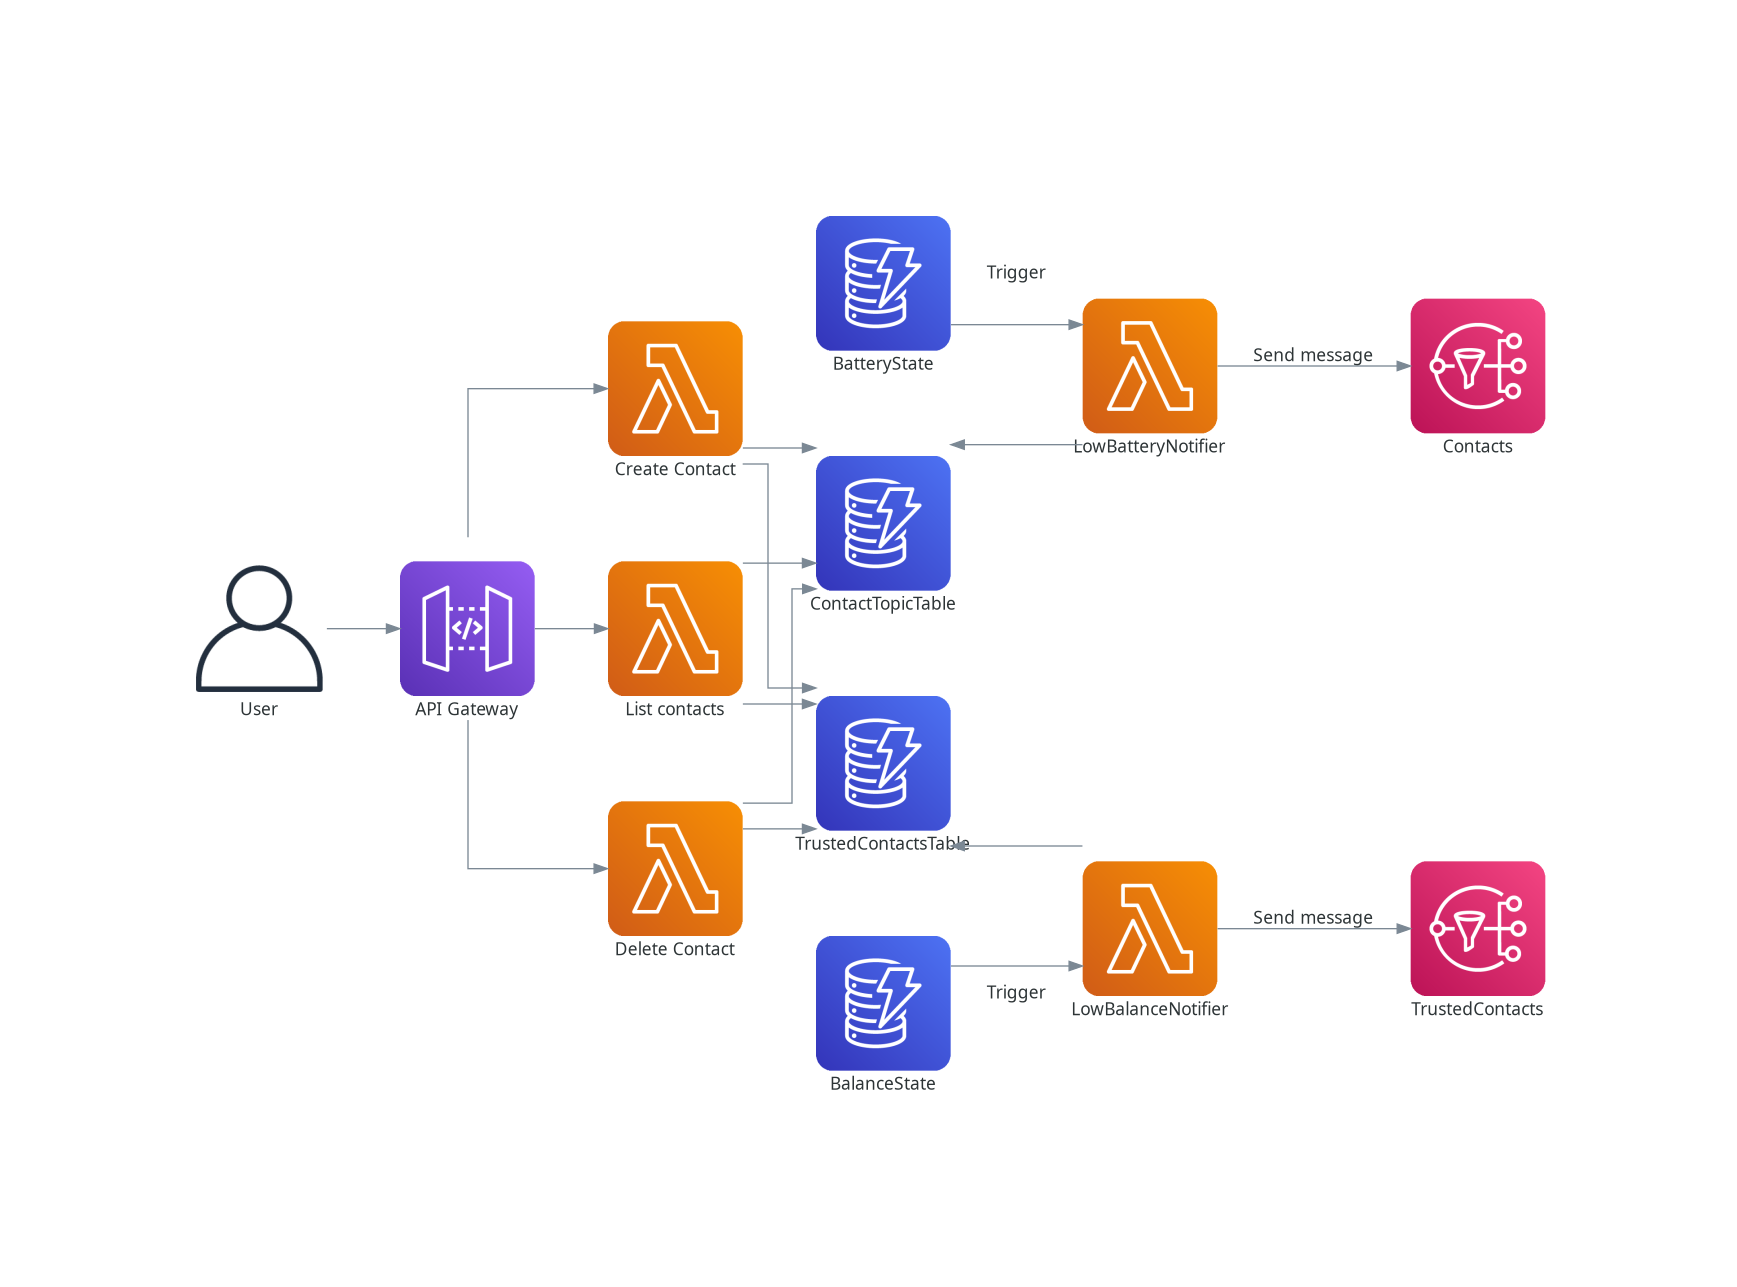
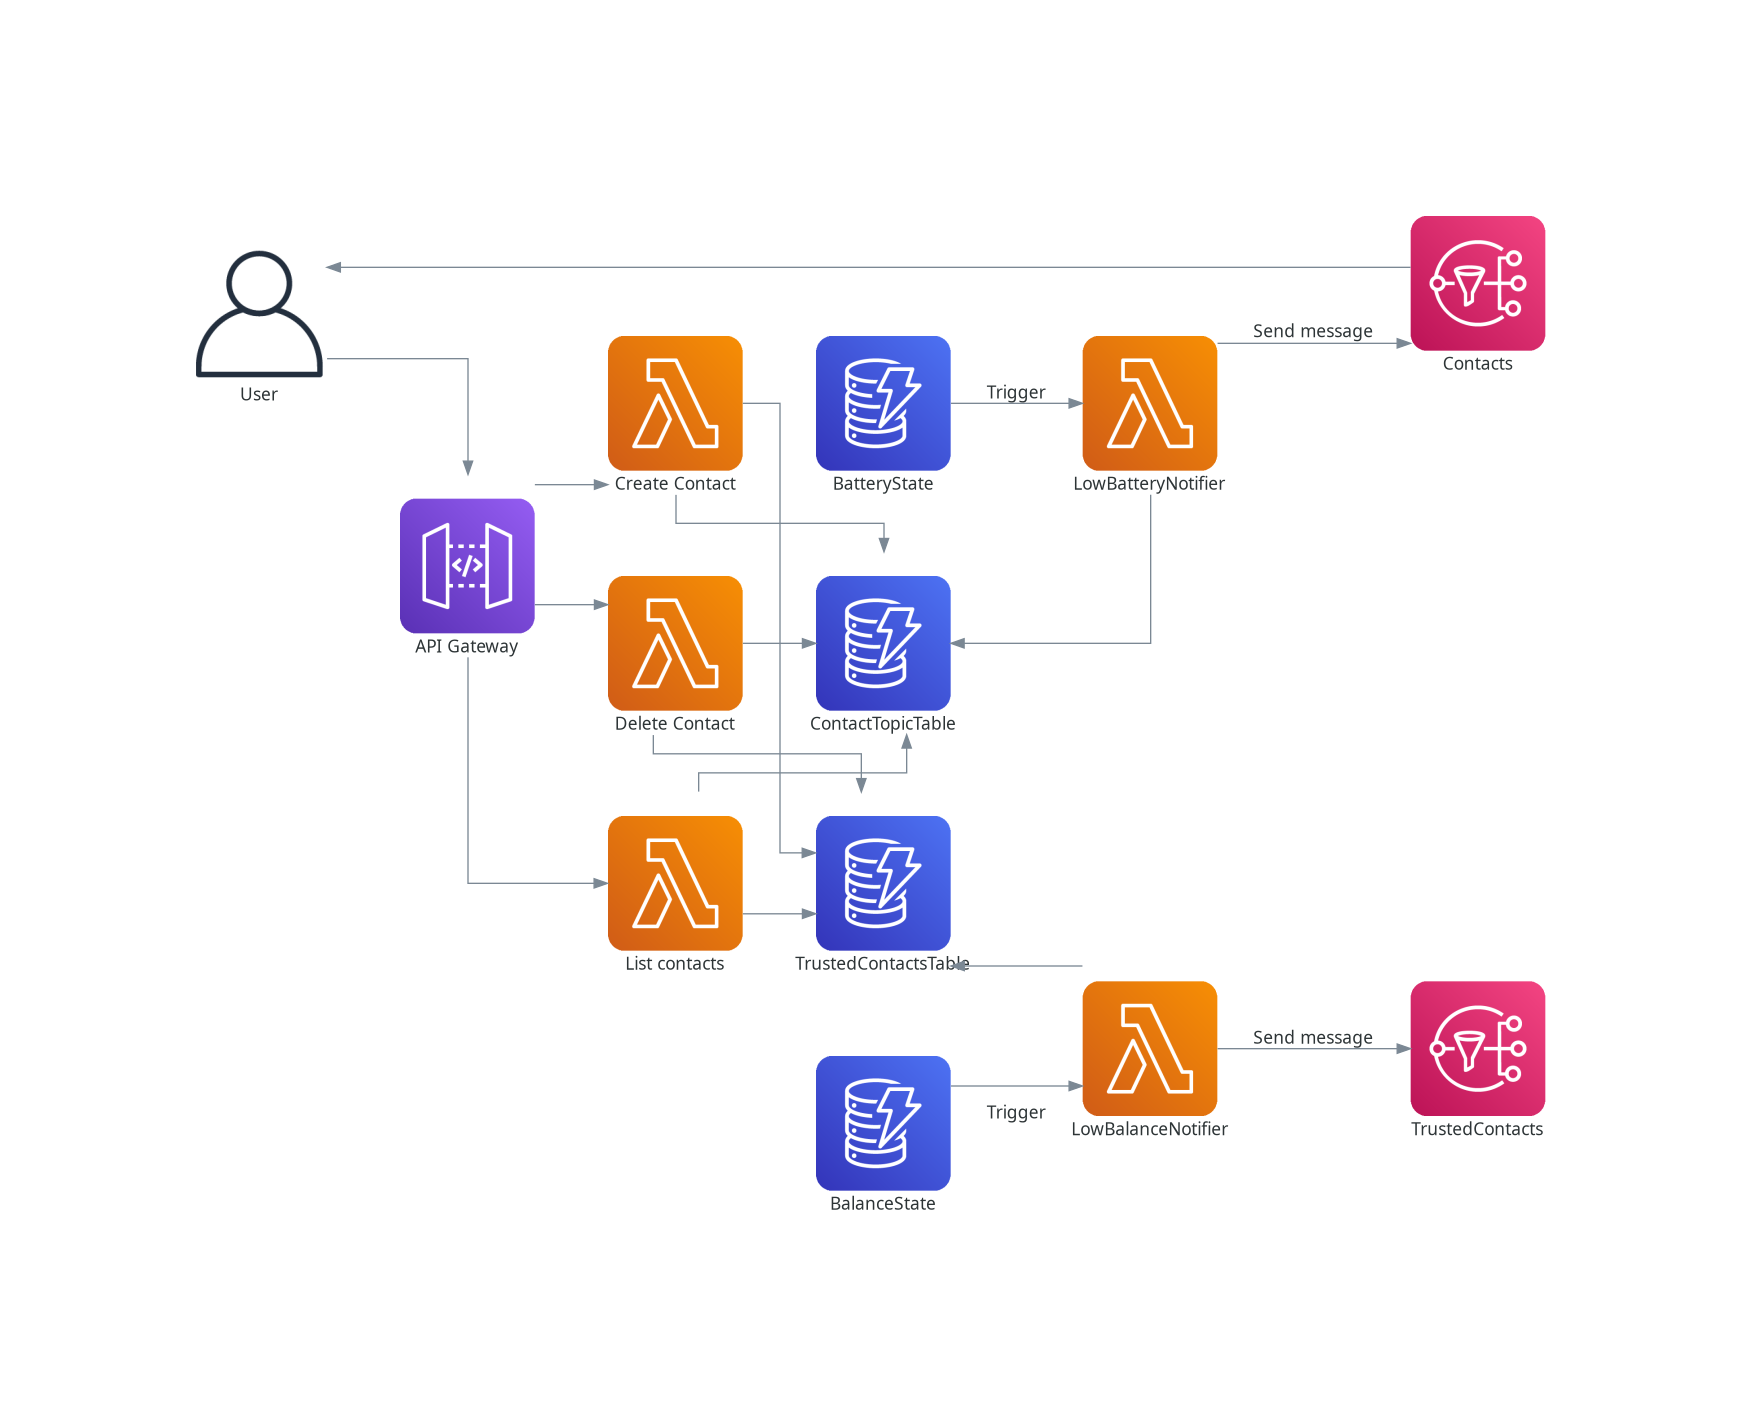
docs: analysis

diff --git a/docs/analysis.py b/docs/analysis.py
@@ -1,0 +1,22 @@
+from diagrams import Diagram
+from diagrams.onprem.client import User
+from diagrams.aws.analytics import KinesisDataStreams, KinesisDataFirehose
+from diagrams.aws.storage import S3
+from diagrams.aws.database import Dynamodb
+from diagrams.aws.compute import Lambda
+
+with Diagram("", filename="docs/analysis"):
+    user = User("SerenUp Customer")
+    data_stream = KinesisDataStreams("BraceletMetricIngester")
+    firehose = KinesisDataFirehose("DataWarehousePipeline")
+    data_warehouse = S3("DataWarehouse")
+
+    user >> data_stream >> firehose >> data_warehouse
+
+    battery_analyzer = Lambda("BatteryAnalyzer")
+    battery_state = Dynamodb("BatteryState")
+    data_stream >> battery_analyzer >> battery_state
+
+    balance_analyzer = Lambda("BalanceAnalyzer")
+    balance_state = Dynamodb("BalanceState")
+    data_stream >> balance_analyzer >> balance_state

diff --git a/docs/notifications.py b/docs/notifications.py
@@ -33,6 +33,7 @@ with Diagram("", filename="docs/notifications"):
     battery_state >> Edge(label="Trigger") >> low_battery_notifier
     contacts_table << low_battery_notifier
     low_battery_notifier >> Edge(label="Send message") >> contacts_topic
+    user << contacts_topic
 
     balance_state >> Edge(label="Trigger") >> low_balance_notifier
     trusted_contacts_table << low_balance_notifier

diff --git a/README.md b/README.md
@@ -19,6 +19,12 @@ Currently, only 2 categories have been implemented:
 
 ![Notification](./docs/notifications.png)
 
+## Analysis
+Incoming data is analyzed as soon as they are dispatched from Kinesis Data Stream and it's composed by 3 jobs:
+- DataWarehousePipeline: Kinesis Firehose is a service managed by AWS that accomplish the task of reading the data from a Kinesis Stream and storing in a S3 bucket as JSON object
+- Battery Analyzer: Analyze battery level for every incoming metrics and report a state in the BatteryState table (DynamoDB) 
+- Balance Analyzer: same as Battery Analyzer but for balance
+![Analysis](./docs/analysis.png)
 
 ## API documentation
 AWS API gateway allow to download current API design in OpenAPI 3.0 format:
